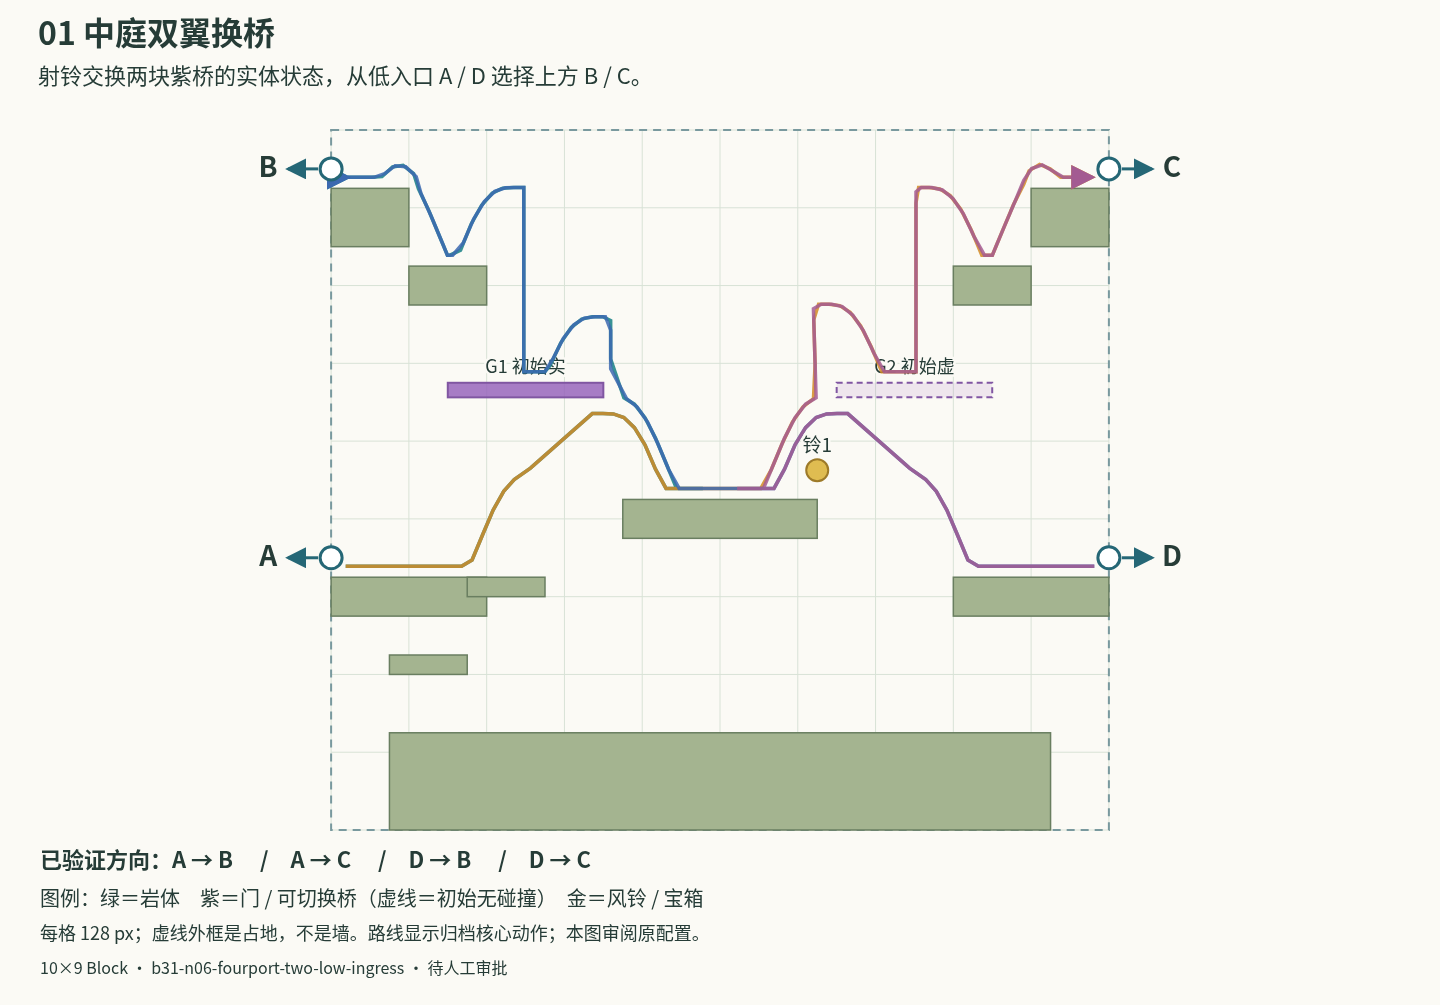
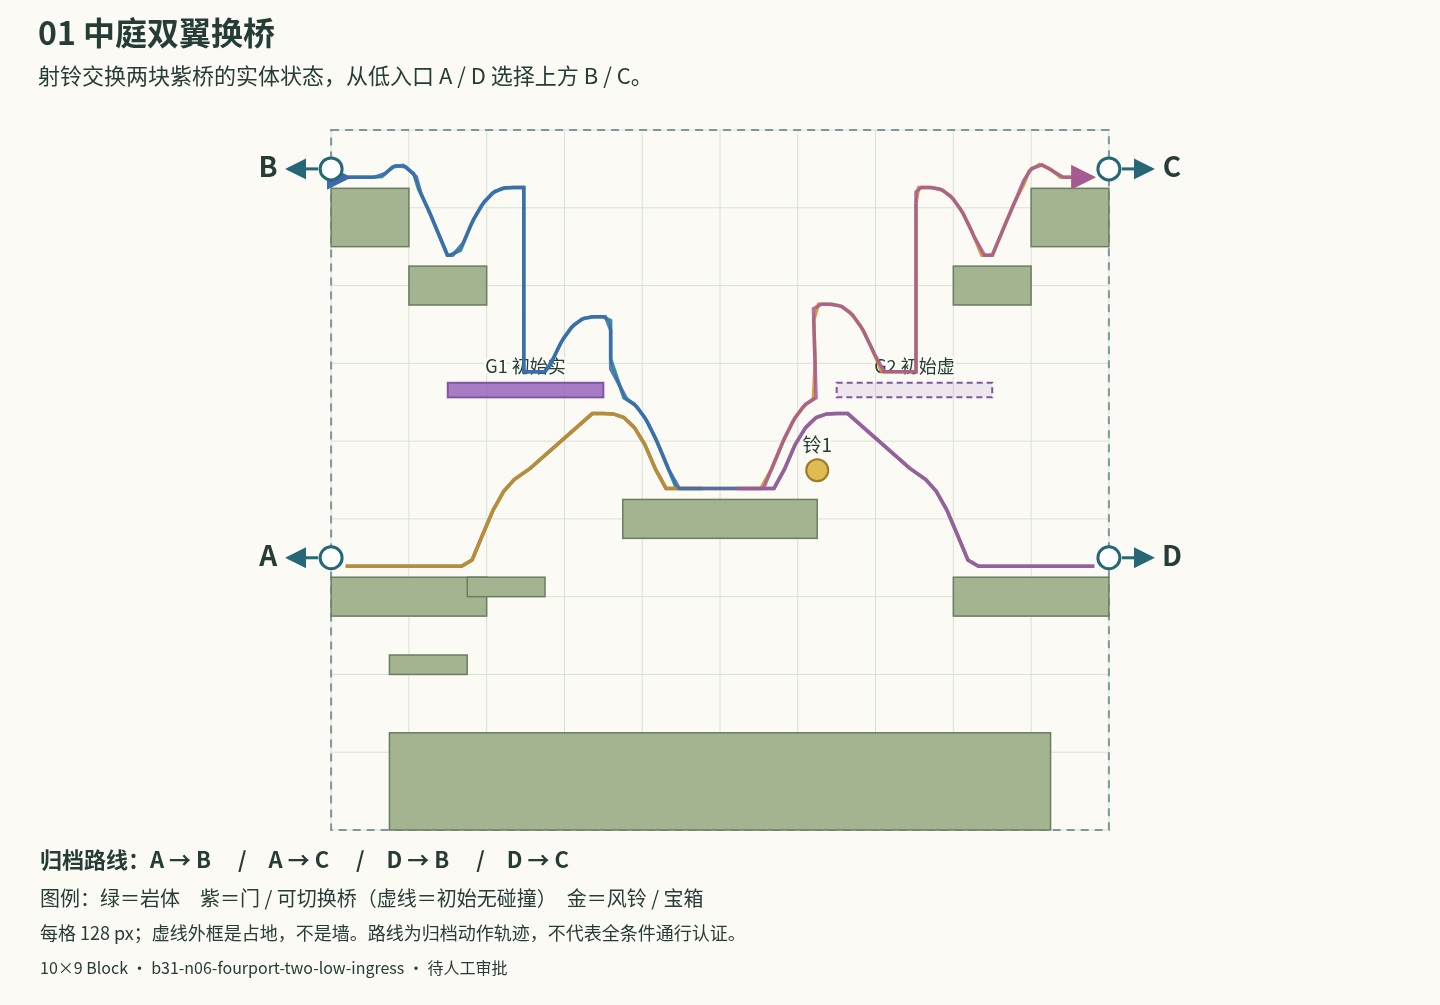
Label review paths as recorded trajectories within their original scope

Changed region(s): [[0.0312, 0.8328, 0.4062, 0.8637], [0.2812, 0.8945, 0.5, 0.9562]]

diff --git a/generation/manual-review/batch-001/render_diagrams.py b/generation/manual-review/batch-001/render_diagrams.py
@@ -45,9 +45,9 @@ for n,(entry,(title,note)) in enumerate(zip(catalog,notes),1):
   cx,cy=X(o['x']+o['w']/2),Y(o['y']+o['h']/2);amount=(o.get('mechanics')or{}).get('amount','');parts.append(f'<rect x="{cx-13}" y="{cy-11}" width="26" height="22" rx="3" fill="#ecc65b" stroke="#956b25" stroke-width="2"/>');text(cx,cy-21,f'宝箱 {amount}',19,anchor='middle')
  for p in gc['ports']:
   cx,cy=X(p['position'][0]),Y(p['position'][1]);nx,ny=p['normal'];parts.append(f'<circle cx="{cx}" cy="{cy}" r="11" fill="white" stroke="#256776" stroke-width="3"/><path d="M{cx+nx*13} {cy+ny*13}L{cx+nx*43} {cy+ny*43}" stroke="#256776" stroke-width="3" marker-end="url(#arrow)"/>');text(cx+nx*63,cy+8+ny*50,p['id'],28,anchor='middle',weight=700)
- y=Y(b['y']+b['h'])+38;text(40,y,'已验证方向：'+'　 /　'.join(r['from']+' → '+r['to'] for r in gc['routes']),22,weight=600)
+ y=Y(b['y']+b['h'])+38;text(40,y,'归档路线：'+'　 /　'.join(r['from']+' → '+r['to'] for r in gc['routes']),22,weight=600)
  text(40,y+38,'图例：绿＝岩体　紫＝门 / 可切换桥（虚线＝初始无碰撞）　金＝风铃 / 宝箱',20)
- text(40,y+72,'每格 128 px；虚线外框是占地，不是墙。路线显示归档核心动作；本图审阅原配置。',18)
+ text(40,y+72,'每格 128 px；虚线外框是占地，不是墙。路线为归档动作轨迹，不代表全条件通行认证。',18)
  text(40,y+106,f'{gc["foundation"]["widthBlocks"]}×{gc["foundation"]["heightBlocks"]} Block · {entry["id"]} · 待人工审批',16)
  parts.append('</svg>');svg=out/f'{n:02d}.svg';svg.write_text(''.join(parts))
  rows.append(dict(reviewId=f'{n:02d}',title=title,summary=note,moduleId=entry['id'],source=entry['file'],sourceSha256=hashlib.sha256(src.read_bytes()).hexdigest(),contentVersion=gc['contentVersion'],diagram=f'{n:02d}.png',svg=svg.name,decision='PENDING',humanFeedback=[]))
